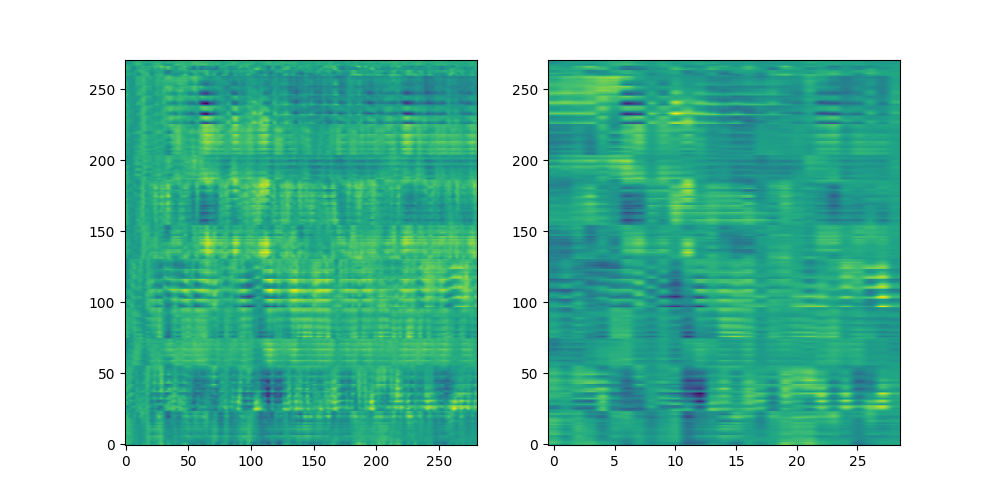
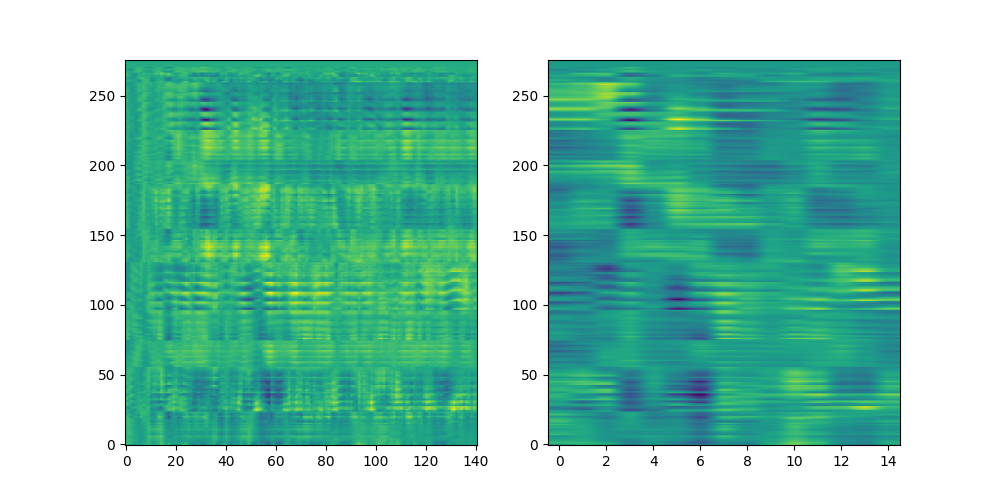
update

diff --git a/src/models.py b/src/models.py
@@ -42,12 +42,40 @@ class ImageEncoder(nn.Module):
         return x
 
 
+class Transformer_Classifier(nn.Module):
+    def __init__(self, d_model: int, num_classes: int):
+        super().__init__()
+        self.rearrange1 = Rearrange("b c t -> t b c")
+
+        self.encoder_layer = nn.TransformerEncoderLayer(
+            d_model=d_model, nhead=8, dim_feedforward=2048, dropout=0.1, activation="gelu", layer_norm_eps=1e-5
+        )
+        self.transformer_encoder = nn.TransformerEncoder(self.encoder_layer, num_layers=6, enable_nested_tensor=False)
+
+        self.rearrange2 = Rearrange("t b c -> b c t")
+        self.adaptive_avg_pool1d = nn.AdaptiveAvgPool1d(1)
+        self.rearrange3 = Rearrange("b c t -> b (c t)")
+
+        self.classifier = nn.Sequential(
+            nn.Linear(d_model, num_classes),
+        )
+
+    def forward(self, x: torch.Tensor):
+        x = self.rearrange1(x)
+        x = self.transformer_encoder(x)
+        x = self.rearrange2(x)
+        x = self.adaptive_avg_pool1d(x)
+        x = self.rearrange3(x)
+        x = self.classifier(x)
+        return x
+
+
 class LSTM_Classifier(nn.Module):
     def __init__(self, input_size: int, hidden_size: int, num_classes: int, dropout: float, state_dict: dict = None):
         super().__init__()
 
         self.hidden_size = hidden_size
-        self.num_layers = 1
+        self.num_layers = 2
         self.rearrange1 = Rearrange("b c t -> b t c")
         self.lstm = nn.LSTM(
             input_size=input_size,
@@ -60,11 +88,16 @@ class LSTM_Classifier(nn.Module):
         if state_dict is not None:
             self.lstm.load_state_dict(state_dict)
 
-        self.classifier = nn.Linear(hidden_size, num_classes)
+        self.classifier = nn.Sequential(
+            nn.Linear(hidden_size, 2048),
+            nn.GELU(),
+            nn.Dropout(0.1),
+            nn.Linear(2048, num_classes),
+        )
 
     def forward(self, x: torch.Tensor) -> torch.Tensor:
-        h0 = torch.zeros(self.num_layers, x.size(0), self.hidden_size).to(x.device)
-        c0 = torch.zeros(self.num_layers, x.size(0), self.hidden_size).to(x.device)
+        h0 = torch.randn(self.num_layers, x.size(0), self.hidden_size).to(x.device)
+        c0 = torch.randn(self.num_layers, x.size(0), self.hidden_size).to(x.device)
 
         x = self.rearrange1(x)
         x, (_, _) = self.lstm(x, (h0, c0))

diff --git a/main.py b/main.py
@@ -11,7 +11,7 @@ from termcolor import cprint
 from tqdm import tqdm
 
 from src.datasets import ThingsMEGDataset
-from src.models import LSTM_Classifier, BasicConvClassifier
+from src.models import LSTM_Classifier, BasicConvClassifier, Transformer_Classifier
 from src.utils import set_seed
 
 
@@ -43,21 +43,21 @@ def run(args: DictConfig):
     # ------------------
     #       Model
     # ------------------
-    model = BasicConvClassifier(train_set.num_classes, train_set.seq_len, train_set.num_channels, hid_dim=512).to(
-        args.device
-    )
+    model = BasicConvClassifier(train_set.num_classes, train_set.seq_len, train_set.num_channels).to(args.device)
     # model = LSTM_Classifier(
     #     input_size=train_set.num_channels,
-    #     hidden_size=512,
+    #     hidden_size=2048,
     #     num_classes=train_set.num_classes,
-    #     dropout=0.1,
+    #     dropout=0.3,
     #     # state_dict=torch.load(args.pretrained_model),
     # ).to(args.device)
+    # model = Transformer_Classifier(d_model=train_set.num_channels, num_classes=train_set.num_classes).to(args.device)
 
     # ------------------
     #     Optimizer
     # ------------------
-    optimizer = torch.optim.Adam(model.parameters(), lr=args.lr, weight_decay=args.weight_decay)
+    # optimizer = torch.optim.Adam(model.parameters(), lr=args.lr, weight_decay=args.weight_decay)
+    optimizer = torch.optim.Adam(model.parameters(), lr=args.lr)
 
     # ------------------
     #   Start training

diff --git a/src/datasets.py b/src/datasets.py
@@ -74,8 +74,9 @@ class ThingsMEGDataset(torch.utils.data.Dataset):
         X_path = os.path.join(self.data_dir, f"{self.split}_X", str(i).zfill(5) + ".npy")
         X = torch.from_numpy(np.load(X_path))
 
-        X = torchaudio.functional.resample(X, orig_freq=200, new_freq=100, lowpass_filter_width=24)
-        X = X - torch.mean(X, dim=1, dtype=torch.float32, keepdim=True)
+        X = torchaudio.functional.resample(X, orig_freq=200, new_freq=100, lowpass_filter_width=12)
+        # X = torch.vstack([X, torch.zeros(1, X.shape[1])])
+        # X = X - torch.mean(X, dim=1, dtype=torch.float32, keepdim=True)
 
         subject_idx_path = os.path.join(self.data_dir, f"{self.split}_subject_idxs", str(i).zfill(5) + ".npy")
         subject_idx = torch.from_numpy(np.load(subject_idx_path))
@@ -91,6 +92,7 @@ class ThingsMEGDataset(torch.utils.data.Dataset):
     @property
     def num_channels(self) -> int:
         return np.load(os.path.join(self.data_dir, f"{self.split}_X", "00000.npy")).shape[0]
+        # return np.load(os.path.join(self.data_dir, f"{self.split}_X", "00000.npy")).shape[0] + 1
 
     @property
     def seq_len(self) -> int:

diff --git a/test.py b/test.py
@@ -10,6 +10,10 @@ from src.datasets import ThingsMEGDataset
 
 train_set = ThingsMEGDataset("train", "/workspaces/PythonProjects/dl_lecture_competition_pub/data")
 
+A = torch.tensor([[1, 2, 3], [3, 4, 5]])
+A = torch.vstack([A, torch.zeros(2, A.shape[1])])
+ic(A)
+
 X, y, idx = train_set[0]
 ic(X.shape)
 
